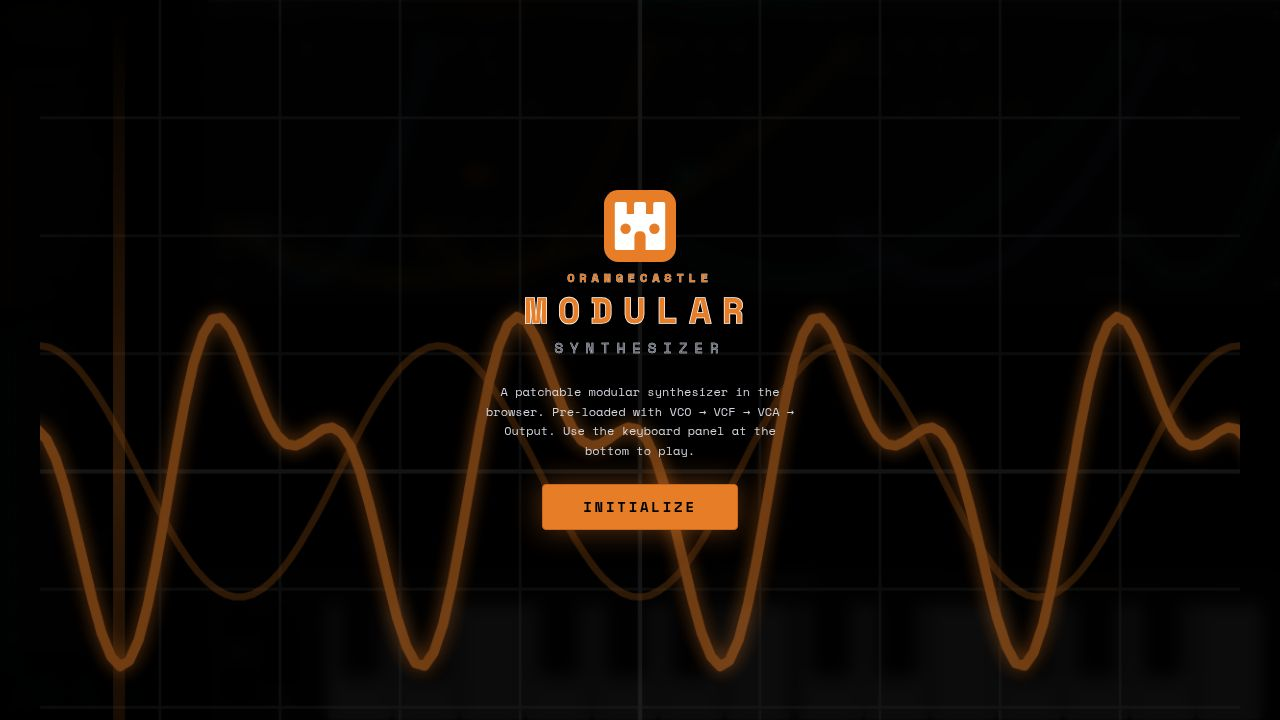
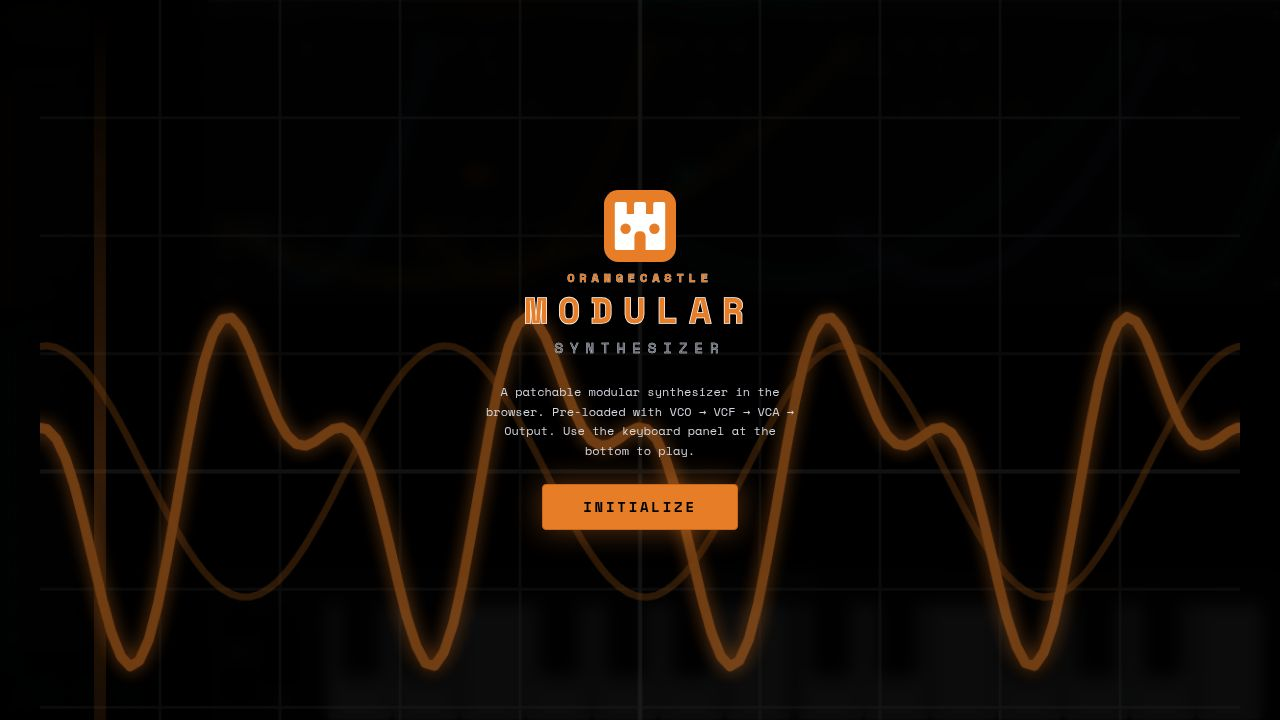
Align audio playback timing to eliminate rhythmic gaps
Fixes an issue where the first beat of audio playback was delayed by a full interval, causing misalignment with external sequencers.

Replit-Commit-Author: Agent
Replit-Commit-Session-Id: 432748dd-3314-4cf0-9189-7277573c353c
Replit-Commit-Checkpoint-Type: full_checkpoint
Replit-Commit-Event-Id: c2f8b6de-19ef-4fb7-bdf4-cee5bd07dfb1
Replit-Commit-Screenshot-Url: https://storage.googleapis.com/screenshot-production-us-central1/338c9ae4-9eaa-4246-b9eb-8b16b2420b90/432748dd-3314-4cf0-9189-7277573c353c/vYtk9RT
Replit-Helium-Checkpoint-Created: true

Changed region(s): [[0.0312, 0.3056, 0.5312, 1.0], [0.4688, 0.4278, 0.9688, 0.9472], [0.4375, 0.7333, 0.4688, 0.7944]]

diff --git a/artifacts/modular-synth/src/clockWorker.ts b/artifacts/modular-synth/src/clockWorker.ts
@@ -79,7 +79,11 @@ function schedule(id: number, entry: Entry) {
       if (e.timerId !== null) clearTimeout(e.timerId);
       e.beat = 0;
       e.intervalMs = msg.intervalMs;
-      e.expectedAt = performance.now() + msg.intervalMs;
+      // Set expectedAt = now so beat 0 fires immediately (schedule() clamps
+      // negative delay to 0).  Previously this was now + intervalMs which delayed
+      // the first beat by a full interval — on MIDI Start that put the app's kick
+      // one beat behind the DAW's kick.
+      e.expectedAt = performance.now();
       schedule(msg.id, e);
     }
 